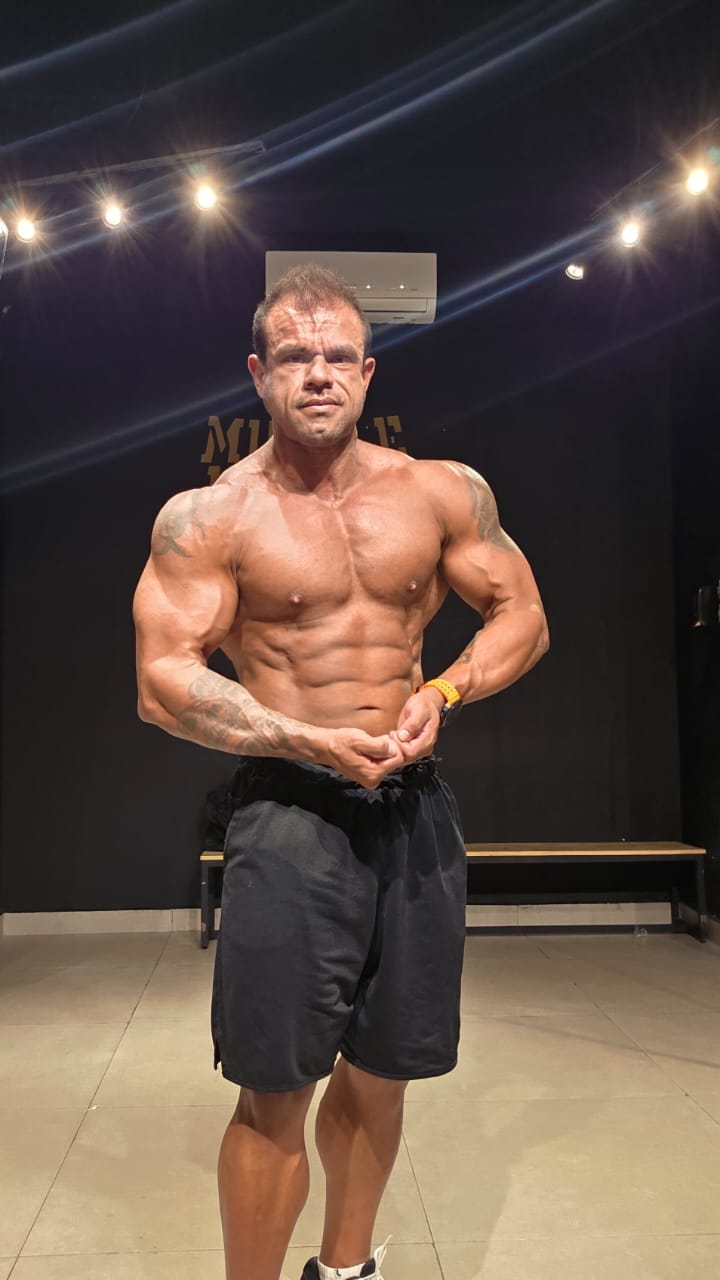
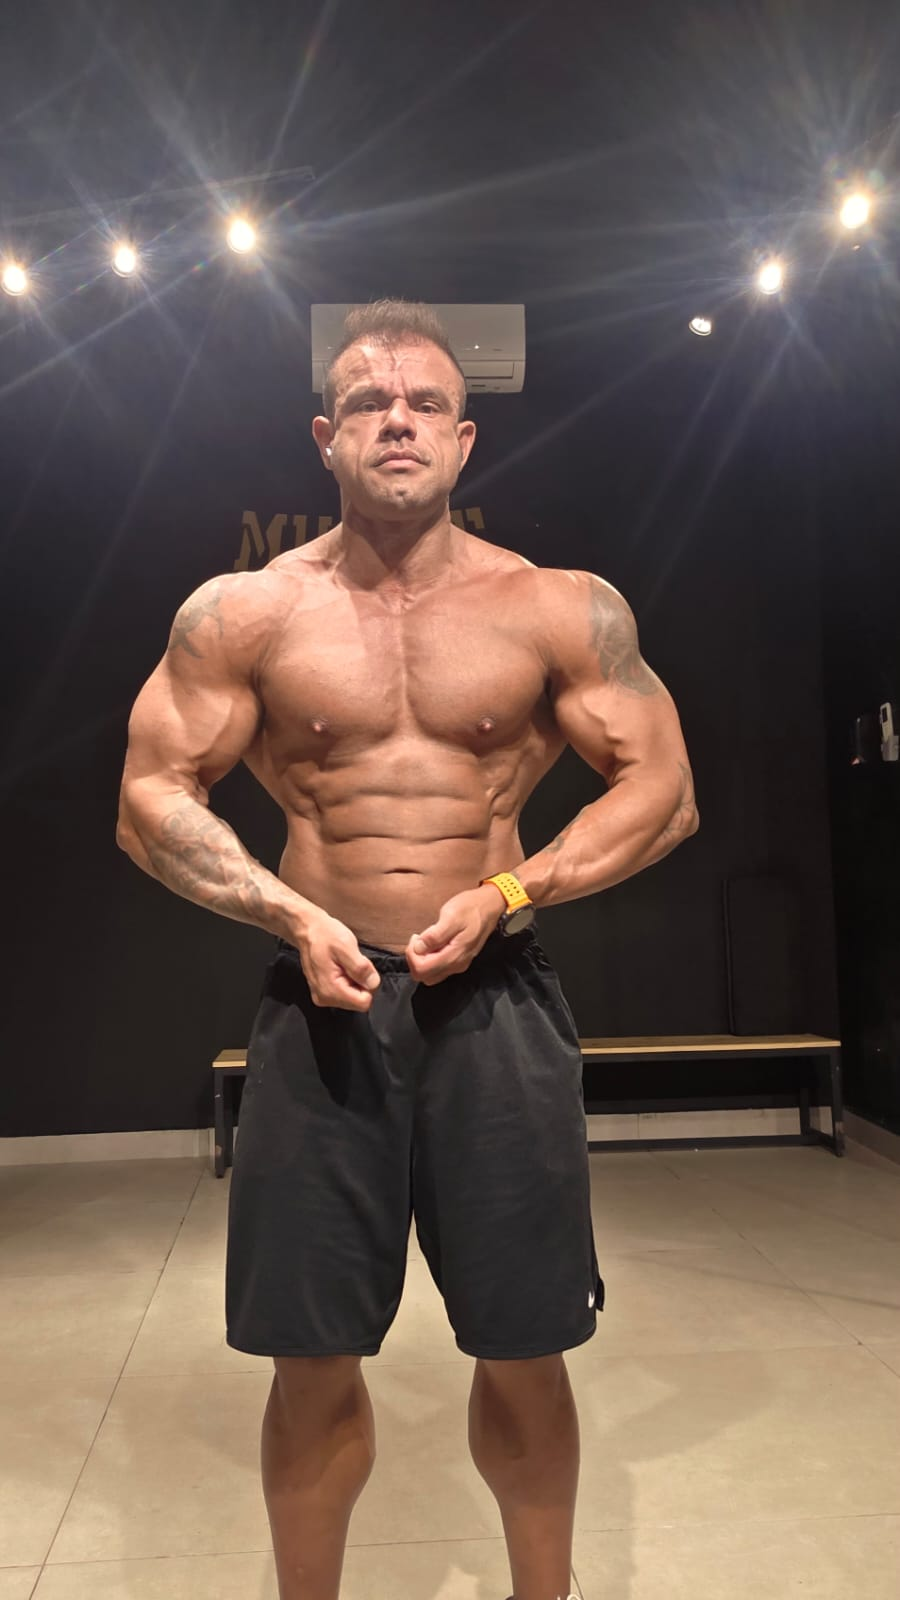
update images

diff --git a/src/components/BeforeAfter.tsx b/src/components/BeforeAfter.tsx
@@ -179,7 +179,7 @@ function ResultCard({ item, width }: ResultCardProps) {
     >
       {/* Card Red Header */}
       <div className="bg-red-600 text-white flex items-center justify-between px-4 py-2.5 text-xs font-bold uppercase tracking-wider h-11 shrink-0">
-     
+     +++++++++++
         <div className="flex items-center gap-1.5">
           <div className="w-5 h-5 rounded-full bg-white flex items-center justify-center text-[9px] text-red-600 font-black italic">
             BG

diff --git a/src/components/Hero.tsx b/src/components/Hero.tsx
@@ -1,7 +1,7 @@
 import { motion } from "motion/react";
 import { Flame, Sparkles } from "lucide-react";
 import { CONFIG } from "../config";
-import BrunoImage from "../assets/images/bruno_trainer.jpeg";
+import BrunoImage from "../assets/images/bruno_trainer_1783462362834.jpg";
 interface HeroProps {
   onOpenAssessment: () => void;
 }